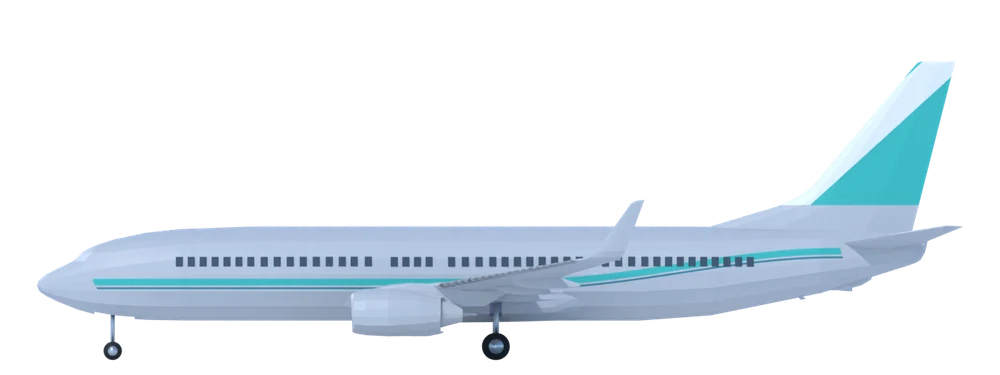
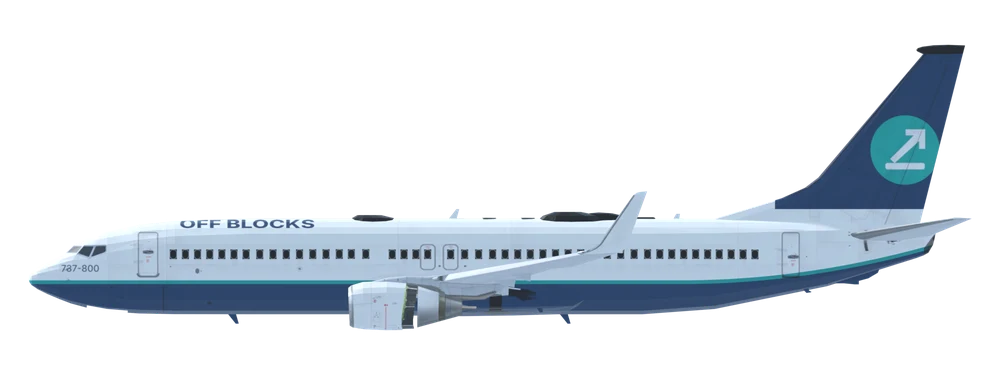
Off Blocks livery: 737-700/800/900, A300-600, 747-8
Claude-Session: https://claude.ai/code/session_01XrFePU9h1hCzy7p7tSHsYD

Changed region(s): [[0.031, 0.1173, 0.961, 0.968]]

diff --git a/sw.js b/sw.js
@@ -1,5 +1,5 @@
 /* Off Blocks service worker. Bump VER to push an update to installed copies. */
-const VER='ob-v51',CORE=["./", "index.html", "manifest.webmanifest", "network.json", "icons/icon-192.png", "icons/icon-512.png", "mapimg/detail.json", "mapimg/sat.webp", "mapimg/terrain.webp", "img/A19N.webp", "img/A19N_side.webp", "img/A20N.webp", "img/A20N_side.webp", "img/A21N.webp", "img/A21N_side.webp", "img/A21X.webp", "img/A21X_side.webp", "img/A306_side.webp", "img/A310.webp", "img/A310_side.webp", "img/A318.webp", "img/A318_side.webp", "img/A319.webp", "img/A319_side.webp", "img/A320.webp", "img/A320_side.webp", "img/A321.webp", "img/A321_side.webp", "img/A332_side.webp", "img/A333_side.webp", "img/A338.webp", "img/A338_side.webp", "img/A339.webp", "img/A339_side.webp", "img/A343_side.webp", "img/A346_side.webp", "img/A359_side.webp", "img/A35K.webp", "img/A35K_side.webp", "img/A388_side.webp", "img/AN24.webp", "img/AR21.webp", "img/AT42_side.webp", "img/AT76_side.webp", "img/B190.webp", "img/B37M.webp", "img/B37M_side.webp", "img/B38M.webp", "img/B38M_side.webp", "img/B39M.webp", "img/B39M_side.webp", "img/B3XM.webp", "img/B3XM_side.webp", "img/B712.webp", "img/B712_side.webp", "img/B722_side.webp", "img/B732.webp", "img/B732_side.webp", "img/B733_side.webp", "img/B734_side.webp", "img/B735.webp", "img/B735_side.webp", "img/B736_side.webp", "img/B737_side.webp", "img/B738_side.webp", "img/B739_side.webp", "img/B744_side.webp", "img/B748_side.webp", "img/B752.webp", "img/B752_side.webp", "img/B753.webp", "img/B753_side.webp", "img/B762.webp", "img/B762_side.webp", "img/B763_side.webp", "img/B764.webp", "img/B764_side.webp", "img/B772_side.webp", "img/B773.webp", "img/B773_side.webp", "img/B779.webp", "img/B779_side.webp", "img/B77L_side.webp", "img/B77W_side.webp", "img/B788_side.webp", "img/B789_side.webp", "img/B78X_side.webp", "img/BCS1_side.webp", "img/BCS3_side.webp", "img/C208.webp", "img/C208_side.webp", "img/C919.webp", "img/C919_side.webp", "img/CRJ2.webp", "img/CRJ2_side.webp", "img/CRJ7_side.webp", "img/CRJ9.webp", "img/CRJ9_side.webp", "img/CRJX_side.webp", "img/D328.webp", "img/DH8A.webp", "img/DH8A_side.webp", "img/DH8C_side.webp", "img/DH8D_side.webp", "img/DHC6_side.webp", "img/E120.webp", "img/E120_side.webp", "img/E135.webp", "img/E135_side.webp", "img/E140.webp", "img/E140_side.webp", "img/E145.webp", "img/E145_side.webp", "img/E170_side.webp", "img/E175_side.webp", "img/E190_side.webp", "img/E195.webp", "img/E195_side.webp", "img/E290_side.webp", "img/E295.webp", "img/E295_side.webp", "img/E75X.webp", "img/E75X_side.webp", "img/F100.webp", "img/F100_side.webp", "img/F50.webp", "img/F50_side.webp", "img/F70.webp", "img/F70_side.webp", "img/J41.webp", "img/L410.webp", "img/L410_side.webp", "img/MA60.webp", "img/MD83.webp", "img/MD83_side.webp", "img/MD90.webp", "img/MD90_side.webp", "img/RJ1H.webp", "img/RJ1H_side.webp", "img/RJ85.webp", "img/RJ85_side.webp", "img/SB20.webp", "img/SF34_side.webp", "img/T154.webp", "img/T154_side.webp"];
+const VER='ob-v52',CORE=["./", "index.html", "manifest.webmanifest", "network.json", "icons/icon-192.png", "icons/icon-512.png", "mapimg/detail.json", "mapimg/sat.webp", "mapimg/terrain.webp", "img/A19N.webp", "img/A19N_side.webp", "img/A20N.webp", "img/A20N_side.webp", "img/A21N.webp", "img/A21N_side.webp", "img/A21X.webp", "img/A21X_side.webp", "img/A306_side.webp", "img/A310.webp", "img/A310_side.webp", "img/A318.webp", "img/A318_side.webp", "img/A319.webp", "img/A319_side.webp", "img/A320.webp", "img/A320_side.webp", "img/A321.webp", "img/A321_side.webp", "img/A332_side.webp", "img/A333_side.webp", "img/A338.webp", "img/A338_side.webp", "img/A339.webp", "img/A339_side.webp", "img/A343_side.webp", "img/A346_side.webp", "img/A359_side.webp", "img/A35K.webp", "img/A35K_side.webp", "img/A388_side.webp", "img/AN24.webp", "img/AR21.webp", "img/AT42_side.webp", "img/AT76_side.webp", "img/B190.webp", "img/B37M.webp", "img/B37M_side.webp", "img/B38M.webp", "img/B38M_side.webp", "img/B39M.webp", "img/B39M_side.webp", "img/B3XM.webp", "img/B3XM_side.webp", "img/B712.webp", "img/B712_side.webp", "img/B722_side.webp", "img/B732.webp", "img/B732_side.webp", "img/B733_side.webp", "img/B734_side.webp", "img/B735.webp", "img/B735_side.webp", "img/B736_side.webp", "img/B737_side.webp", "img/B738_side.webp", "img/B739_side.webp", "img/B744_side.webp", "img/B748_side.webp", "img/B752.webp", "img/B752_side.webp", "img/B753.webp", "img/B753_side.webp", "img/B762.webp", "img/B762_side.webp", "img/B763_side.webp", "img/B764.webp", "img/B764_side.webp", "img/B772_side.webp", "img/B773.webp", "img/B773_side.webp", "img/B779.webp", "img/B779_side.webp", "img/B77L_side.webp", "img/B77W_side.webp", "img/B788_side.webp", "img/B789_side.webp", "img/B78X_side.webp", "img/BCS1_side.webp", "img/BCS3_side.webp", "img/C208.webp", "img/C208_side.webp", "img/C919.webp", "img/C919_side.webp", "img/CRJ2.webp", "img/CRJ2_side.webp", "img/CRJ7_side.webp", "img/CRJ9.webp", "img/CRJ9_side.webp", "img/CRJX_side.webp", "img/D328.webp", "img/DH8A.webp", "img/DH8A_side.webp", "img/DH8C_side.webp", "img/DH8D_side.webp", "img/DHC6_side.webp", "img/E120.webp", "img/E120_side.webp", "img/E135.webp", "img/E135_side.webp", "img/E140.webp", "img/E140_side.webp", "img/E145.webp", "img/E145_side.webp", "img/E170_side.webp", "img/E175_side.webp", "img/E190_side.webp", "img/E195.webp", "img/E195_side.webp", "img/E290_side.webp", "img/E295.webp", "img/E295_side.webp", "img/E75X.webp", "img/E75X_side.webp", "img/F100.webp", "img/F100_side.webp", "img/F50.webp", "img/F50_side.webp", "img/F70.webp", "img/F70_side.webp", "img/J41.webp", "img/L410.webp", "img/L410_side.webp", "img/MA60.webp", "img/MD83.webp", "img/MD83_side.webp", "img/MD90.webp", "img/MD90_side.webp", "img/RJ1H.webp", "img/RJ1H_side.webp", "img/RJ85.webp", "img/RJ85_side.webp", "img/SB20.webp", "img/SF34_side.webp", "img/T154.webp", "img/T154_side.webp"];
 self.addEventListener('install',e=>{e.waitUntil(caches.open(VER).then(c=>Promise.all(CORE.map(u=>c.add(u).catch(()=>0)))).then(()=>self.skipWaiting()))});
 self.addEventListener('activate',e=>{e.waitUntil(caches.keys().then(k=>Promise.all(k.filter(x=>x!==VER).map(x=>caches.delete(x)))).then(()=>self.clients.claim()))});
 self.addEventListener('fetch',e=>{const r=e.request,u=new URL(r.url);if(r.method!=='GET'||u.origin!==location.origin)return;

diff --git a/index.html b/index.html
@@ -180,7 +180,7 @@ const lvBase=src=>new Promise(res=>{if(LVI.base[src])return res(LVI.base[src]);c
 const PHOTOS_OFF={B39M:{src:'img/B39M_photo.webp',by:'Clemens Vasters',lic:'CC BY 2.0',lu:'https://creativecommons.org/licenses/by/2.0/',url:'https://commons.wikimedia.org/wiki/File:N7379E_-_Boeing_737_MAX_9.jpg',n:'Boeing 737 MAX 9'}};
 const PHOTOS={};
 /* types with a finished Off Blocks livery render: shown as-is, no repaint */
-const LVNAT={B38M:1,B39M:1,A318:1,A319:1,A320:1,A321:1,A19N:1,A20N:1,A21N:1,A21X:1,A332:1,A333:1,A338:1,A339:1,A343:1,A346:1,A359:1,A35K:1,B772:1,B773:1,B77L:1,B77W:1,B777:1,B779:1,B788:1,B789:1,B78X:1,B787:1,B752:1,B753:1,B762:1,B763:1,B764:1,E170:1,E175:1,E75L:1,E75X:1,E190:1,E195:1,E290:1,E295:1,CRJ7:1,CRJ2:1,CRJ9:1,CRJX:1,BCS1:1,BCS3:1,AT76:1,AT72:1,AT75:1,AT73:1,DH8D:1,DH8C:1,DH8B:1,DH8A:1,SF34:1,AT43:1,AT44:1,AT45:1,AT46:1};
+const LVNAT={B38M:1,B39M:1,A318:1,A319:1,A320:1,A321:1,A19N:1,A20N:1,A21N:1,A21X:1,A332:1,A333:1,A338:1,A339:1,A343:1,A346:1,A359:1,A35K:1,B772:1,B773:1,B77L:1,B77W:1,B777:1,B779:1,B788:1,B789:1,B78X:1,B787:1,B752:1,B753:1,B762:1,B763:1,B764:1,E170:1,E175:1,E75L:1,E75X:1,E190:1,E195:1,E290:1,E295:1,CRJ7:1,CRJ2:1,CRJ9:1,CRJX:1,BCS1:1,BCS3:1,AT76:1,AT72:1,AT75:1,AT73:1,DH8D:1,DH8C:1,DH8B:1,DH8A:1,SF34:1,AT43:1,AT44:1,AT45:1,AT46:1,B737:1,B738:1,B739:1,A306:1,B748:1};
 const lvSrc=(c,v,l)=>LVI.cache[lvKey(c,v,l)]||'img/'+c+(v==='s'?'_side':'')+'.webp';
 /* natural white: the renders come out blue-grey, so lift and neutralise every light, low-saturation pixel (windows, gear and dark detail are left alone) */
 function lvRefL(d,A){const a=[];for(let i=0;i<A.length;i+=7){if(!A[i])continue;const j=i*4,r=d[j],g=d[j+1],b=d[j+2],mx=Math.max(r,g,b),lu=.3*r+.59*g+.11*b;if(lu>110&&(mx-Math.min(r,g,b))/(mx||1)<.36)a.push(lu)}if(!a.length)return 190;a.sort((p,q)=>p-q);return a[a.length>>1]}
